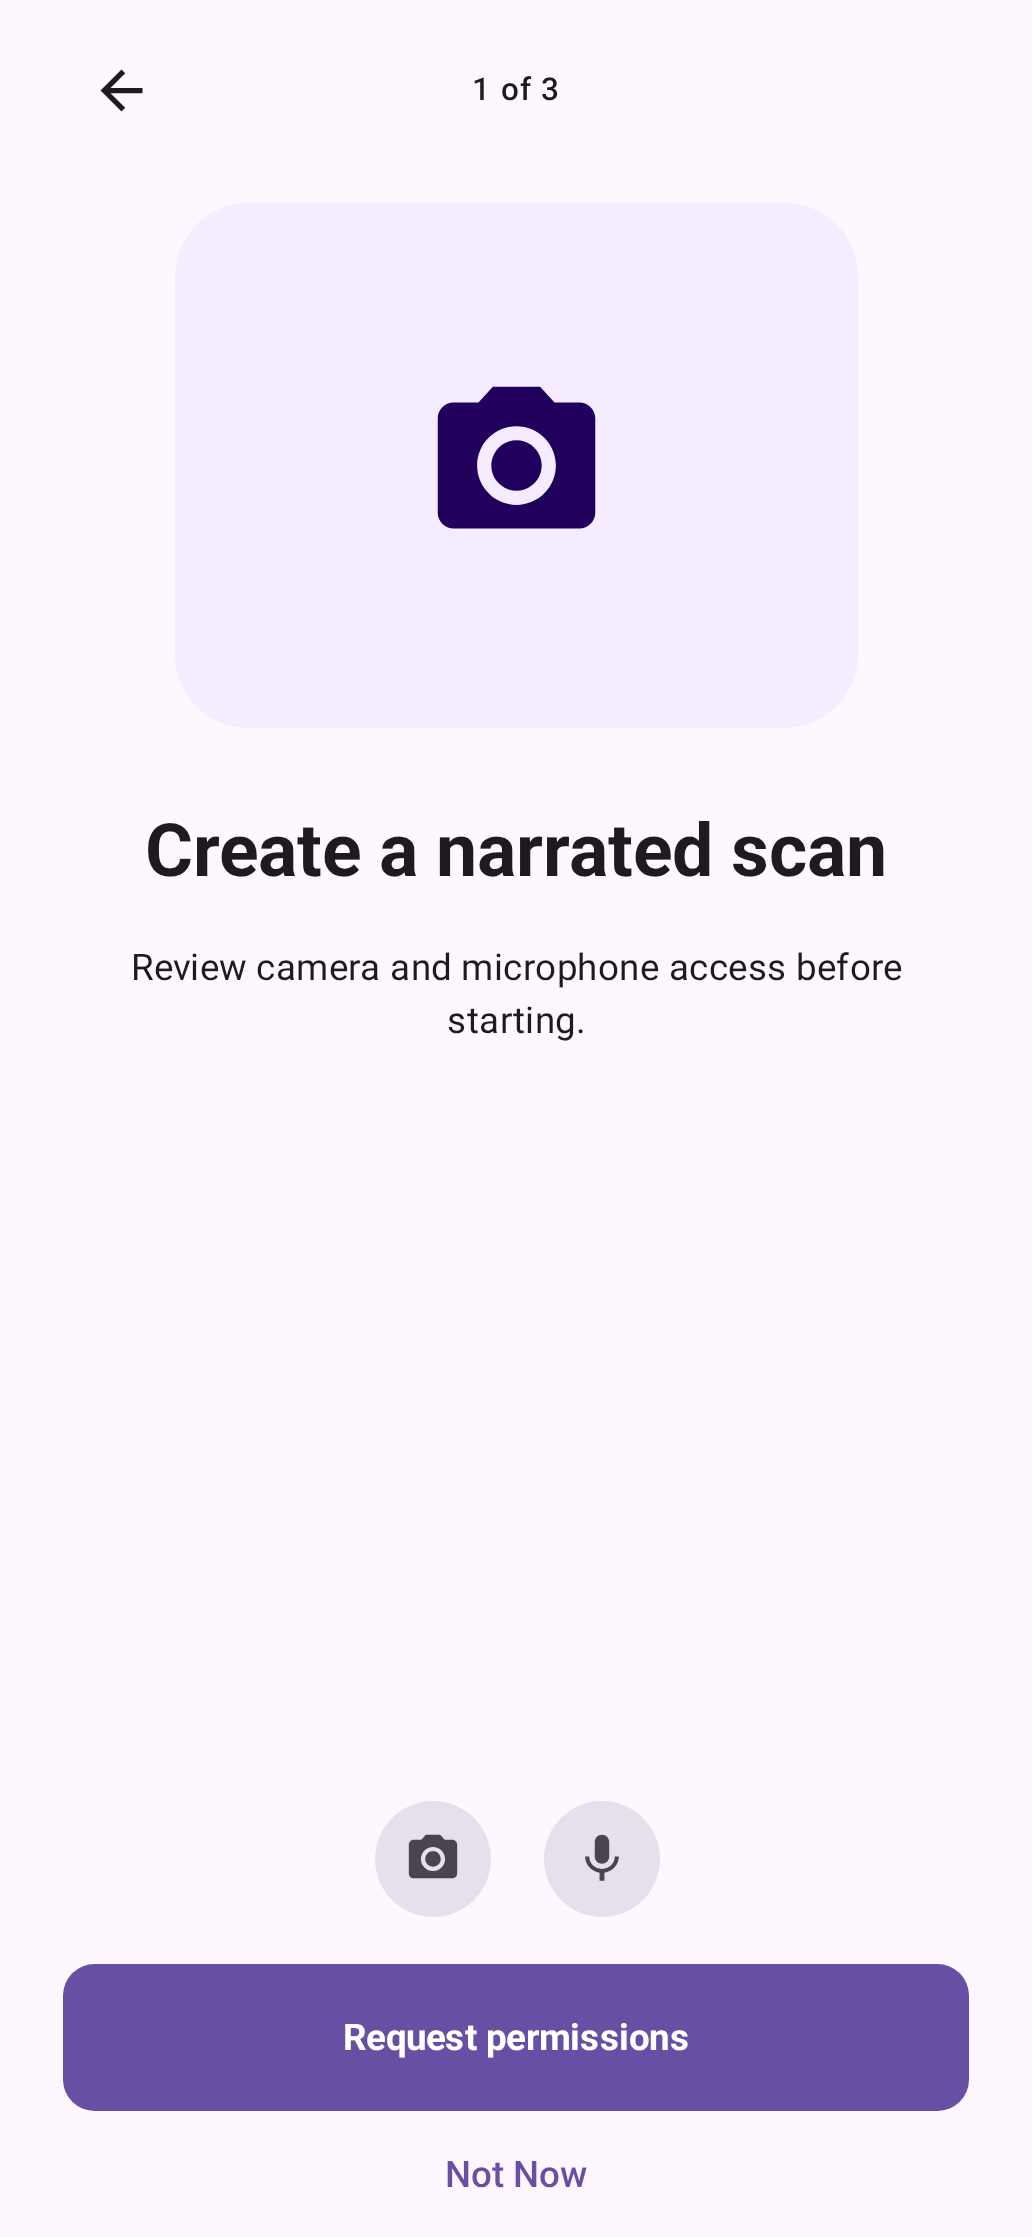
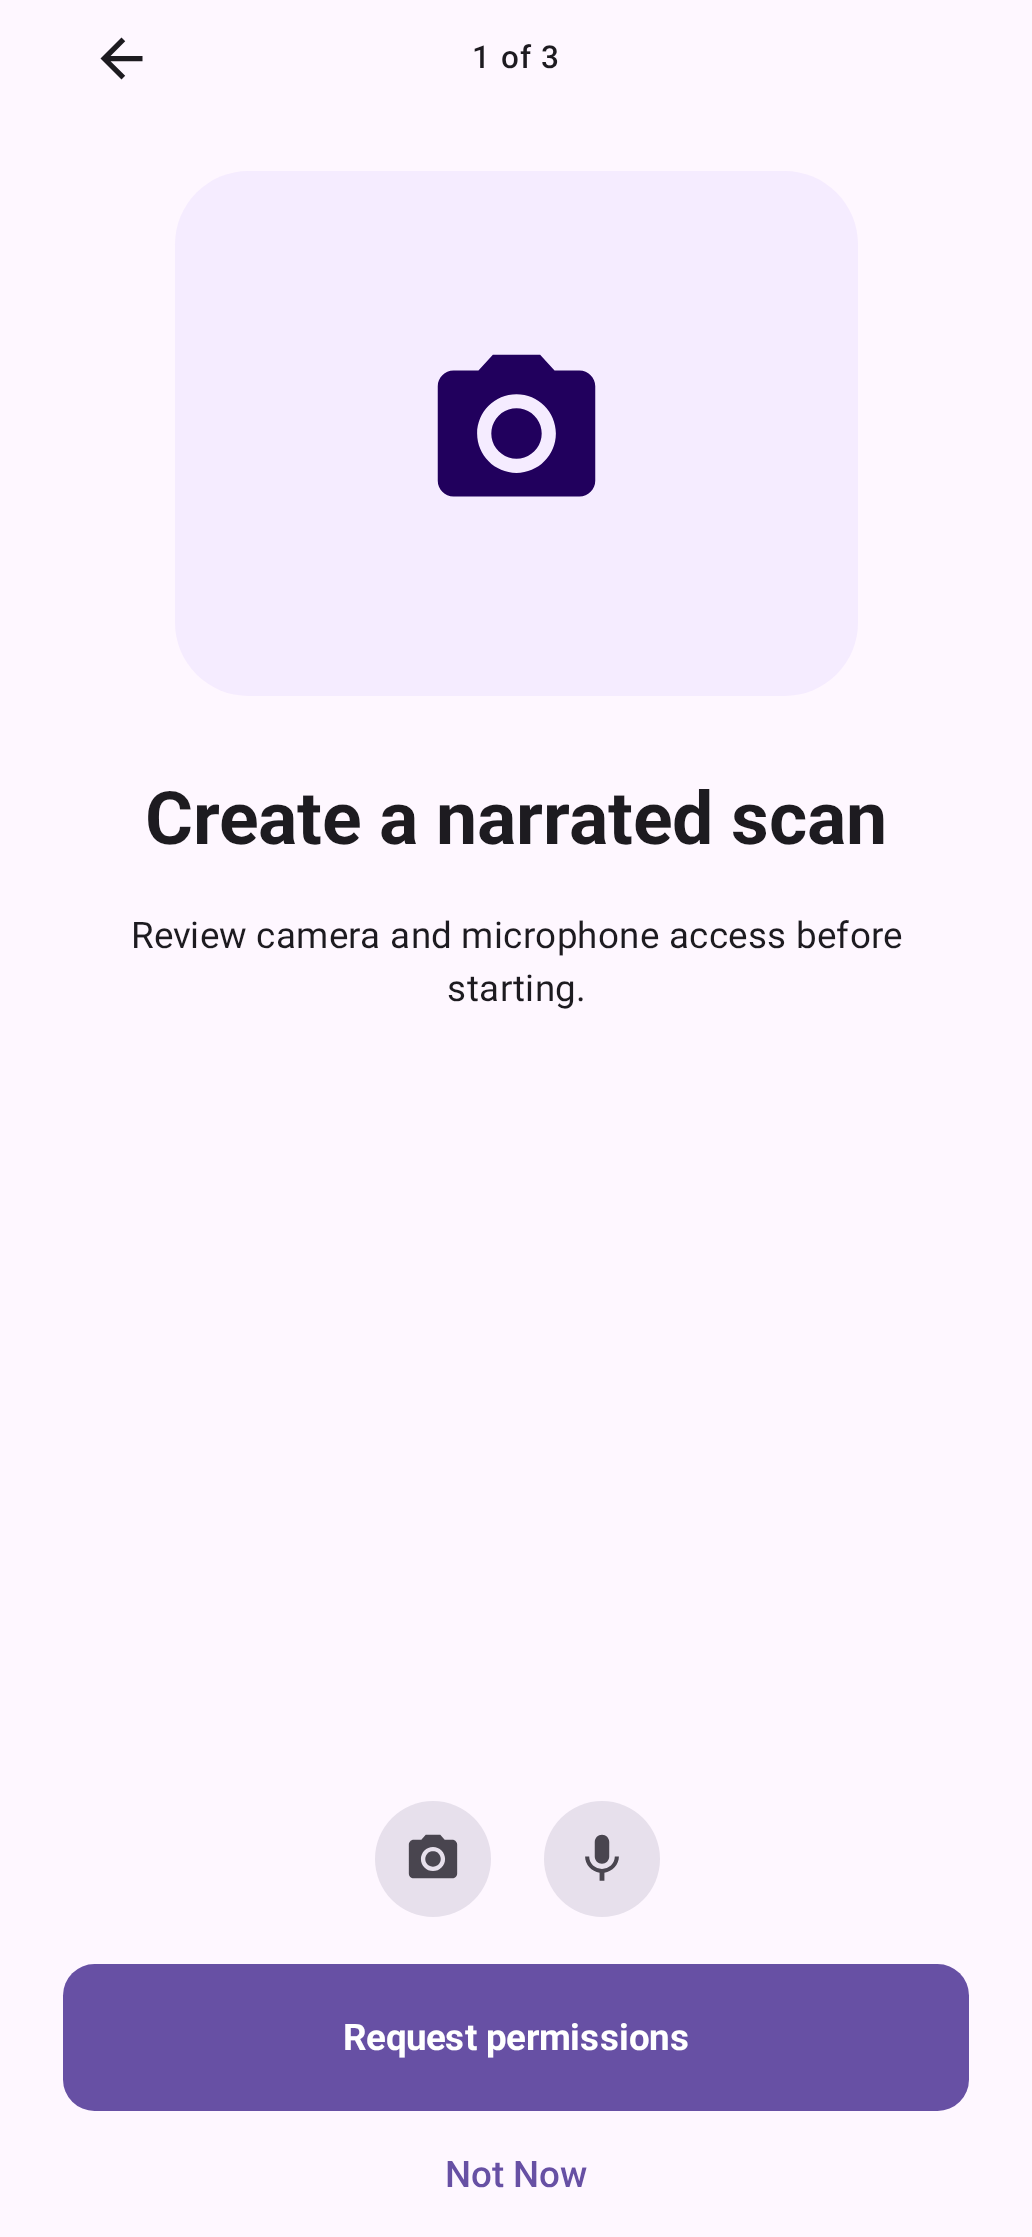
docs: refresh accepted screenshots from verified CI captures

Changed region(s): [[0.124, 0.3393, 0.8682, 0.4627], [0.4031, 0.1542, 0.5891, 0.2468], [0.093, 0.0, 0.124, 0.0617]]

diff --git a/docs/screenshots/README.md b/docs/screenshots/README.md
@@ -1,6 +1,6 @@
 # README screenshots
 
-The original six PNGs in this directory were direct copies from the `permission-screen-images` artifact of the [passing screenshot workflow](https://github.com/lambdawalker/android.apexfission.permissions/actions/runs/36343189239) at commit `d7f8c9e`. `segmented-reading-progress.png` comes from the [segmented progress workflow](https://github.com/lambdawalker/android.apexfission.permissions/actions/runs/36380029091). The current set was reviewed and refreshed from the [PR #21 screenshot workflow](https://github.com/lambdawalker/android.apexfission.permissions/actions/runs/37775282210) at commit `5f1780b`; only `settings-recovery.png` changed pixels, adding the existing cautious recovery message. The manifest retains the capture provenance. No images were manually composed or edited.
+The seven accepted PNGs were rendered by the [screenshot workflow](https://github.com/lambdawalker/android.apexfission.permissions/actions/runs/40774456236) at commit `a3638a937244d05b13cdb0810360ac8037530544`, downloaded from its `permission-screen-images` artifact (`12854851431`), visually reviewed, and accepted with `screenshots:update`. The capture input hash matches the current library, fixture, and toolchain inputs. The manifest records the original capture environment and workflow provenance. No images were manually composed or edited.
 
 | File | `PermissionBundleScreenshotTest` preview |
 | --- | --- |
@@ -12,7 +12,7 @@ The original six PNGs in this directory were direct copies from the `permission-
 | `overflowing-icons.png` | `overflowOverview` |
 | `segmented-reading-progress.png` | `autoplayReadingProgress` |
 
[1 lines of base64/hex data omitted]
+These captures include the layout spacing change from `77233fd`. `single-permission-overview.png` correctly maps to `singlePermissionOverview` (two pages, including the overview). A no-overview single permission is a separate scenario; do not replace or relabel the overview image to represent it.
 
 Use the automated commands below to refresh images after UI changes. Static previews do not capture Android system prompts.
 

diff --git a/sites/src/content/docs/gallery.md b/sites/src/content/docs/gallery.md
@@ -15,7 +15,7 @@ These images come from the library's Compose screenshot tests. They show the exp
   <figure><img src="/android.apexfission.permissions/screenshots/segmented-reading-progress.png" alt="Segmented reading indicator with the current page in progress" loading="lazy" /><figcaption>Reading progress</figcaption></figure>
 </div>
 
-The accepted captures predate the single-page layout change in `77233fd`; spacing may differ from current development source. The single-permission image above intentionally shows `Show` (overview plus permission), not the new no-overview demo. Current source hides the icon strip when only one page is visible. See [the runnable single-permission demo](../demos/#single-permission); refreshed captures still need to be rendered and reviewed.
+These captures were refreshed from [workflow run 40774456236](https://github.com/lambdawalker/android.apexfission.permissions/actions/runs/40774456236) at `a3638a9`, including the current layout spacing. The single-permission image above shows `Show` (overview plus permission). A single page without an overview hides the icon strip; try [the runnable single-permission demo](../demos/#single-permission).
 
 ## How these images are made
 
